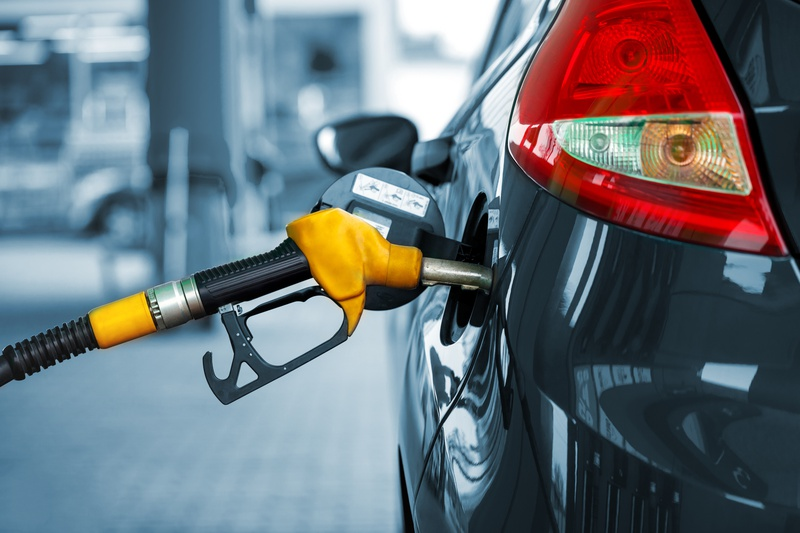
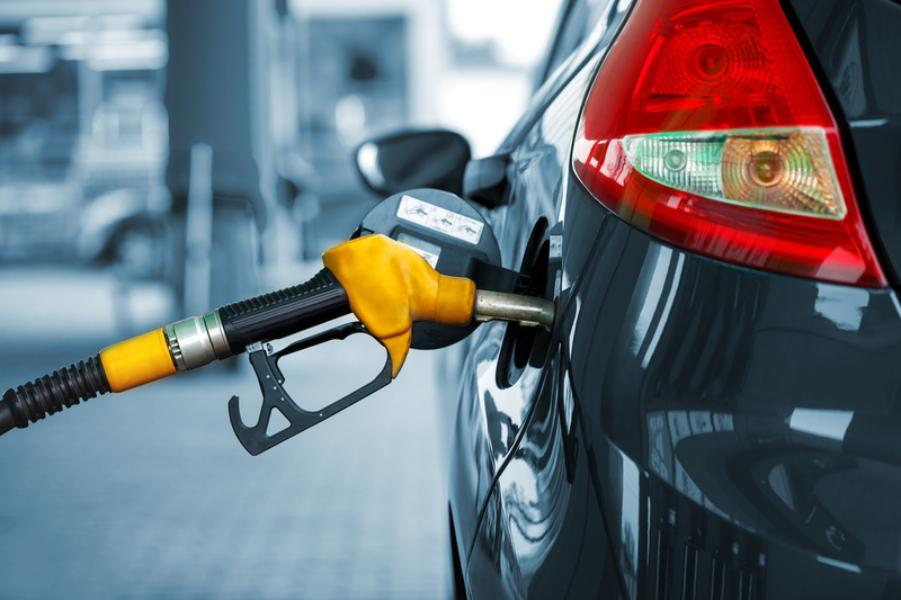
Blog images changed

diff --git a/src/Pages/Blog/Blog.js b/src/Pages/Blog/Blog.js
@@ -30,7 +30,7 @@ const Blog = () => {
                     </Col>
                     <Col xs={ 12 } sm={ 12 } md={ 4 } lg={ 4 }>
                         <Card style={ { width: '18rem', height: "100%" } }>
-                            <Card.Img variant="top" src={ blog1 } className="img-fluid m-auto" />
+                            <Card.Img variant="top" src={ blog2 } className="img-fluid m-auto" />
                             <Card.Body>
                                 <Card.Title className='fs-5'>Advisory fuel rates for company cars</Card.Title>
                                 <Card.Text>
